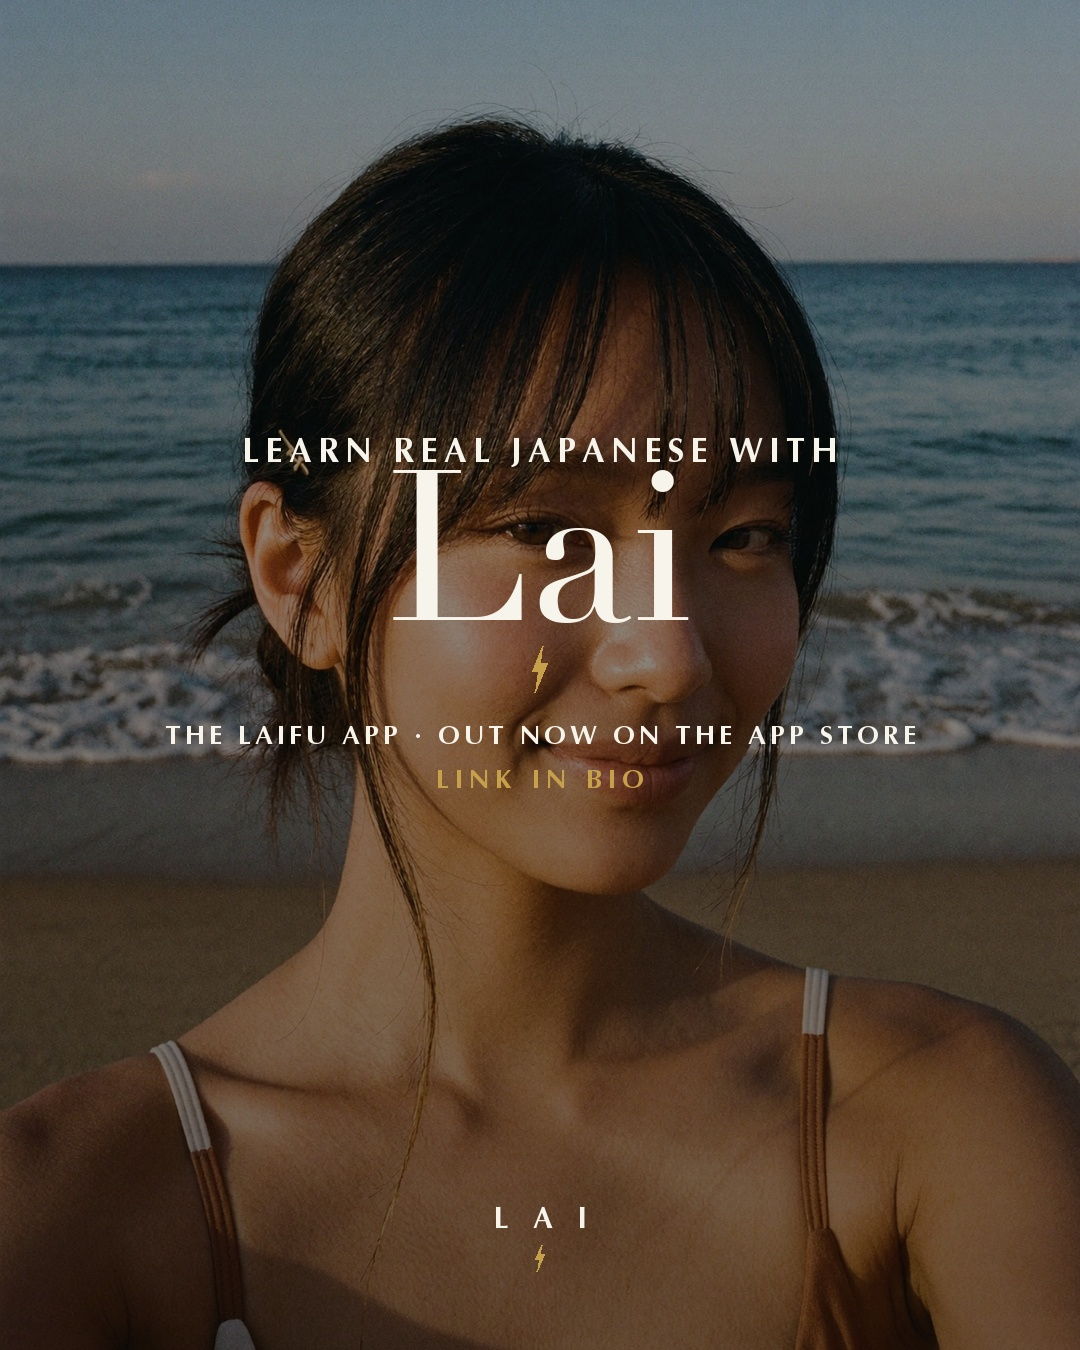
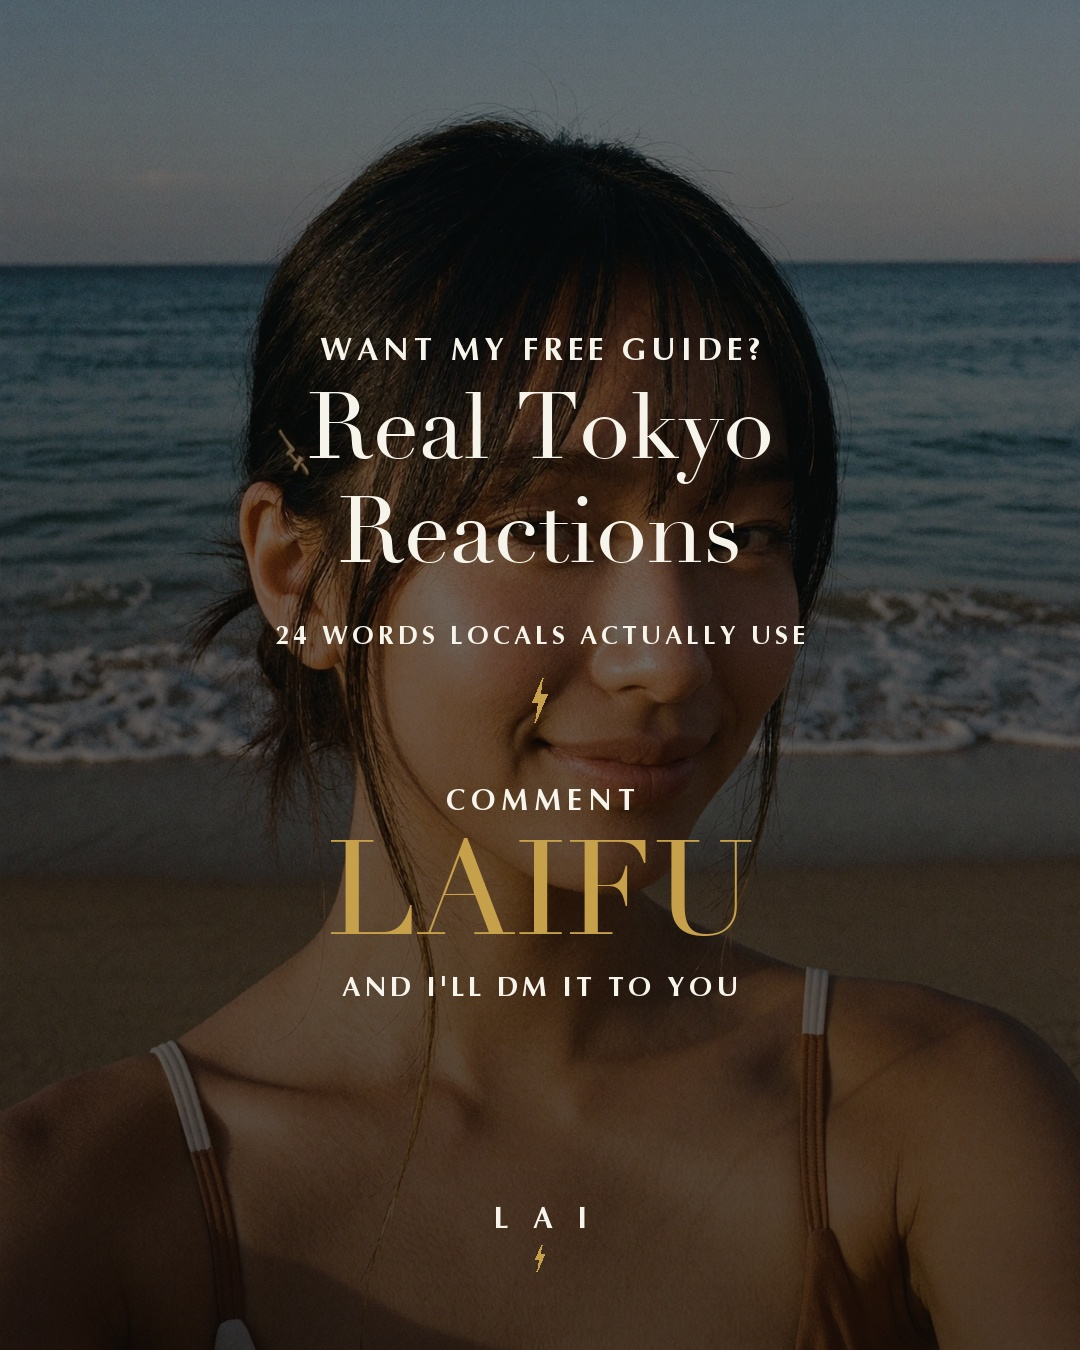
Arm beach deck with the Comment LAIFU lead-magnet CTA

diff --git a/posts/lai-beach/caption.md b/posts/lai-beach/caption.md
@@ -2,9 +2,8 @@ Beach day in Japan hits different 🌊 here are 5 phrases to keep in your back p
 
 Suggesting the trip, asking if you can swim, watching for jellyfish (they show up around Obon, trust me), and grabbing kakigori (かき氷 / shaved ice) after. Summer sorted.
 
-Which beach are you taking these to? 👇
+Swipe for all 5. And if you want the words I use with my own friends, I made you a free guide: 24 real Tokyo reactions (やば, まじで, それな...), the stuff textbooks skip.
 
-Save + follow for daily real Japanese.
-📲 Full audio on every phrase in the Laifu app (link in bio).
+Comment LAIFU and I'll DM it to you ⚡
 
 #learnjapanese #japanese #japanesephrases #nihongo #japansummer #japantravel #studyjapanese #japaneselanguage #beachday #japantrip
